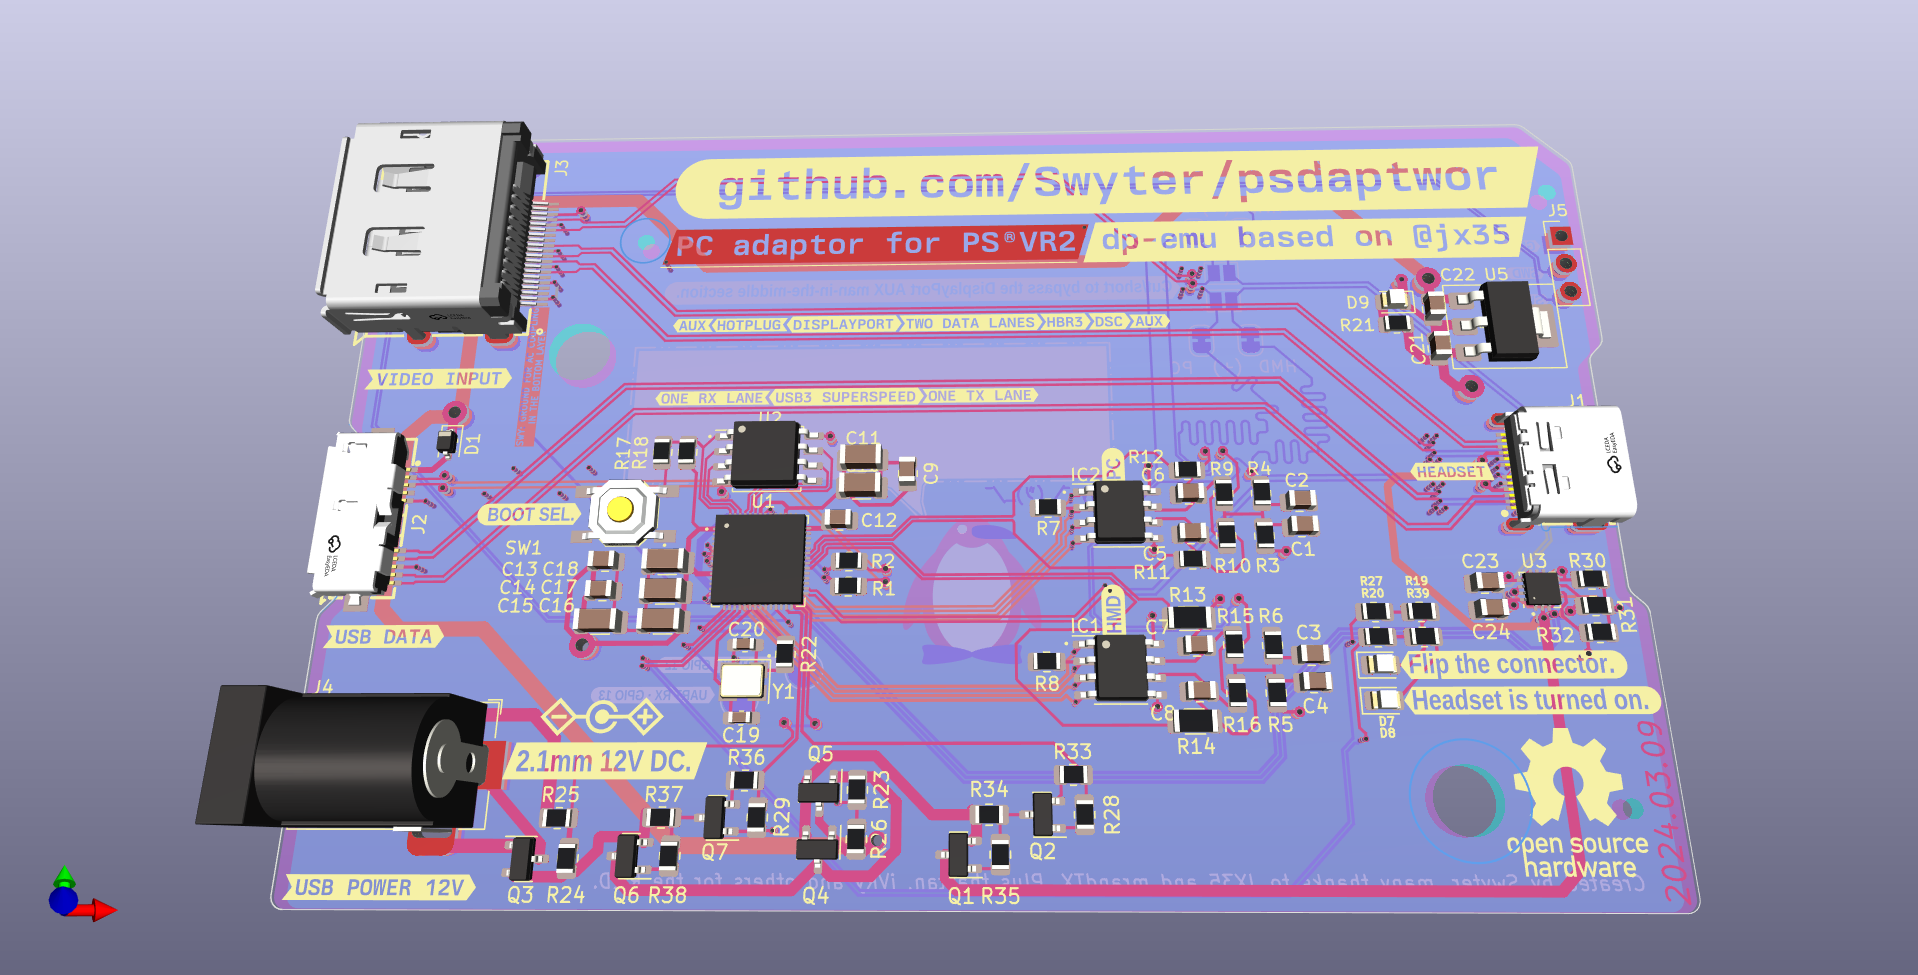
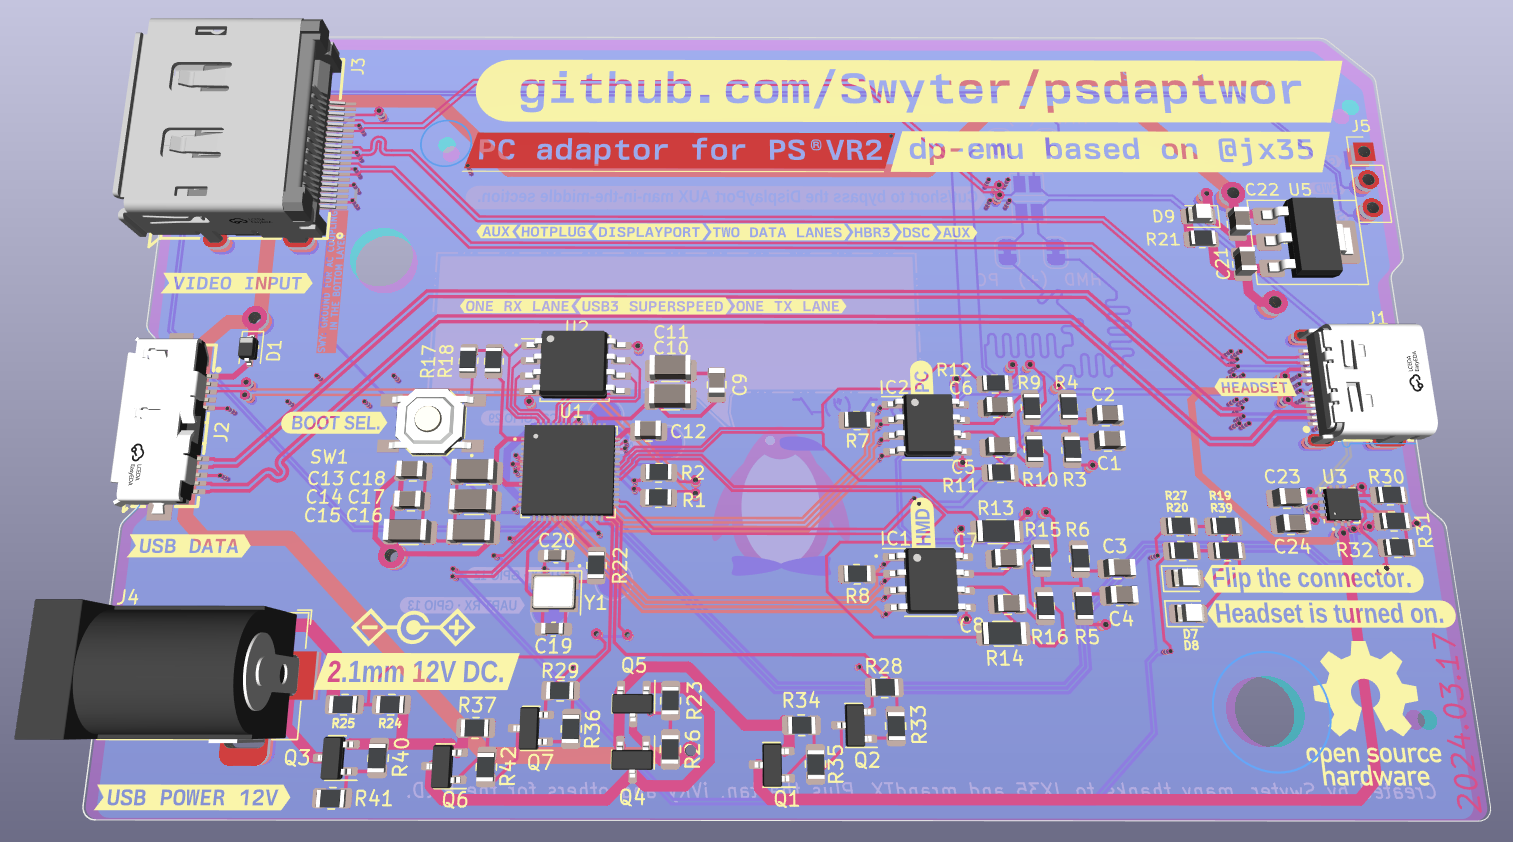
Move the ugly impedance matching notes, indications and text from the User Comments layer to the User.1 layer. So that it doesn't show in the 3D renderer. Update the preview image, link it in the ReadMe file. We're good, I hope.

diff --git a/README.md b/README.md
@@ -10,7 +10,7 @@ The final aim of the project is that one assembled adapter should cost less than
 # What does it look like?
 More or less like this, the dimensions are around *6.3 x 10.2 centimeters*; much tinier than it looks like here:
 
-![imagen](https://github.com/Swyter/psdaptwor/assets/690187/e1b8fb57-2e93-4819-80d6-2b483eae86f4)
+![imagen](./psvr2-pc/psvr2-pc.png)
 
 # What is that name? Do you know how to spell?
 
